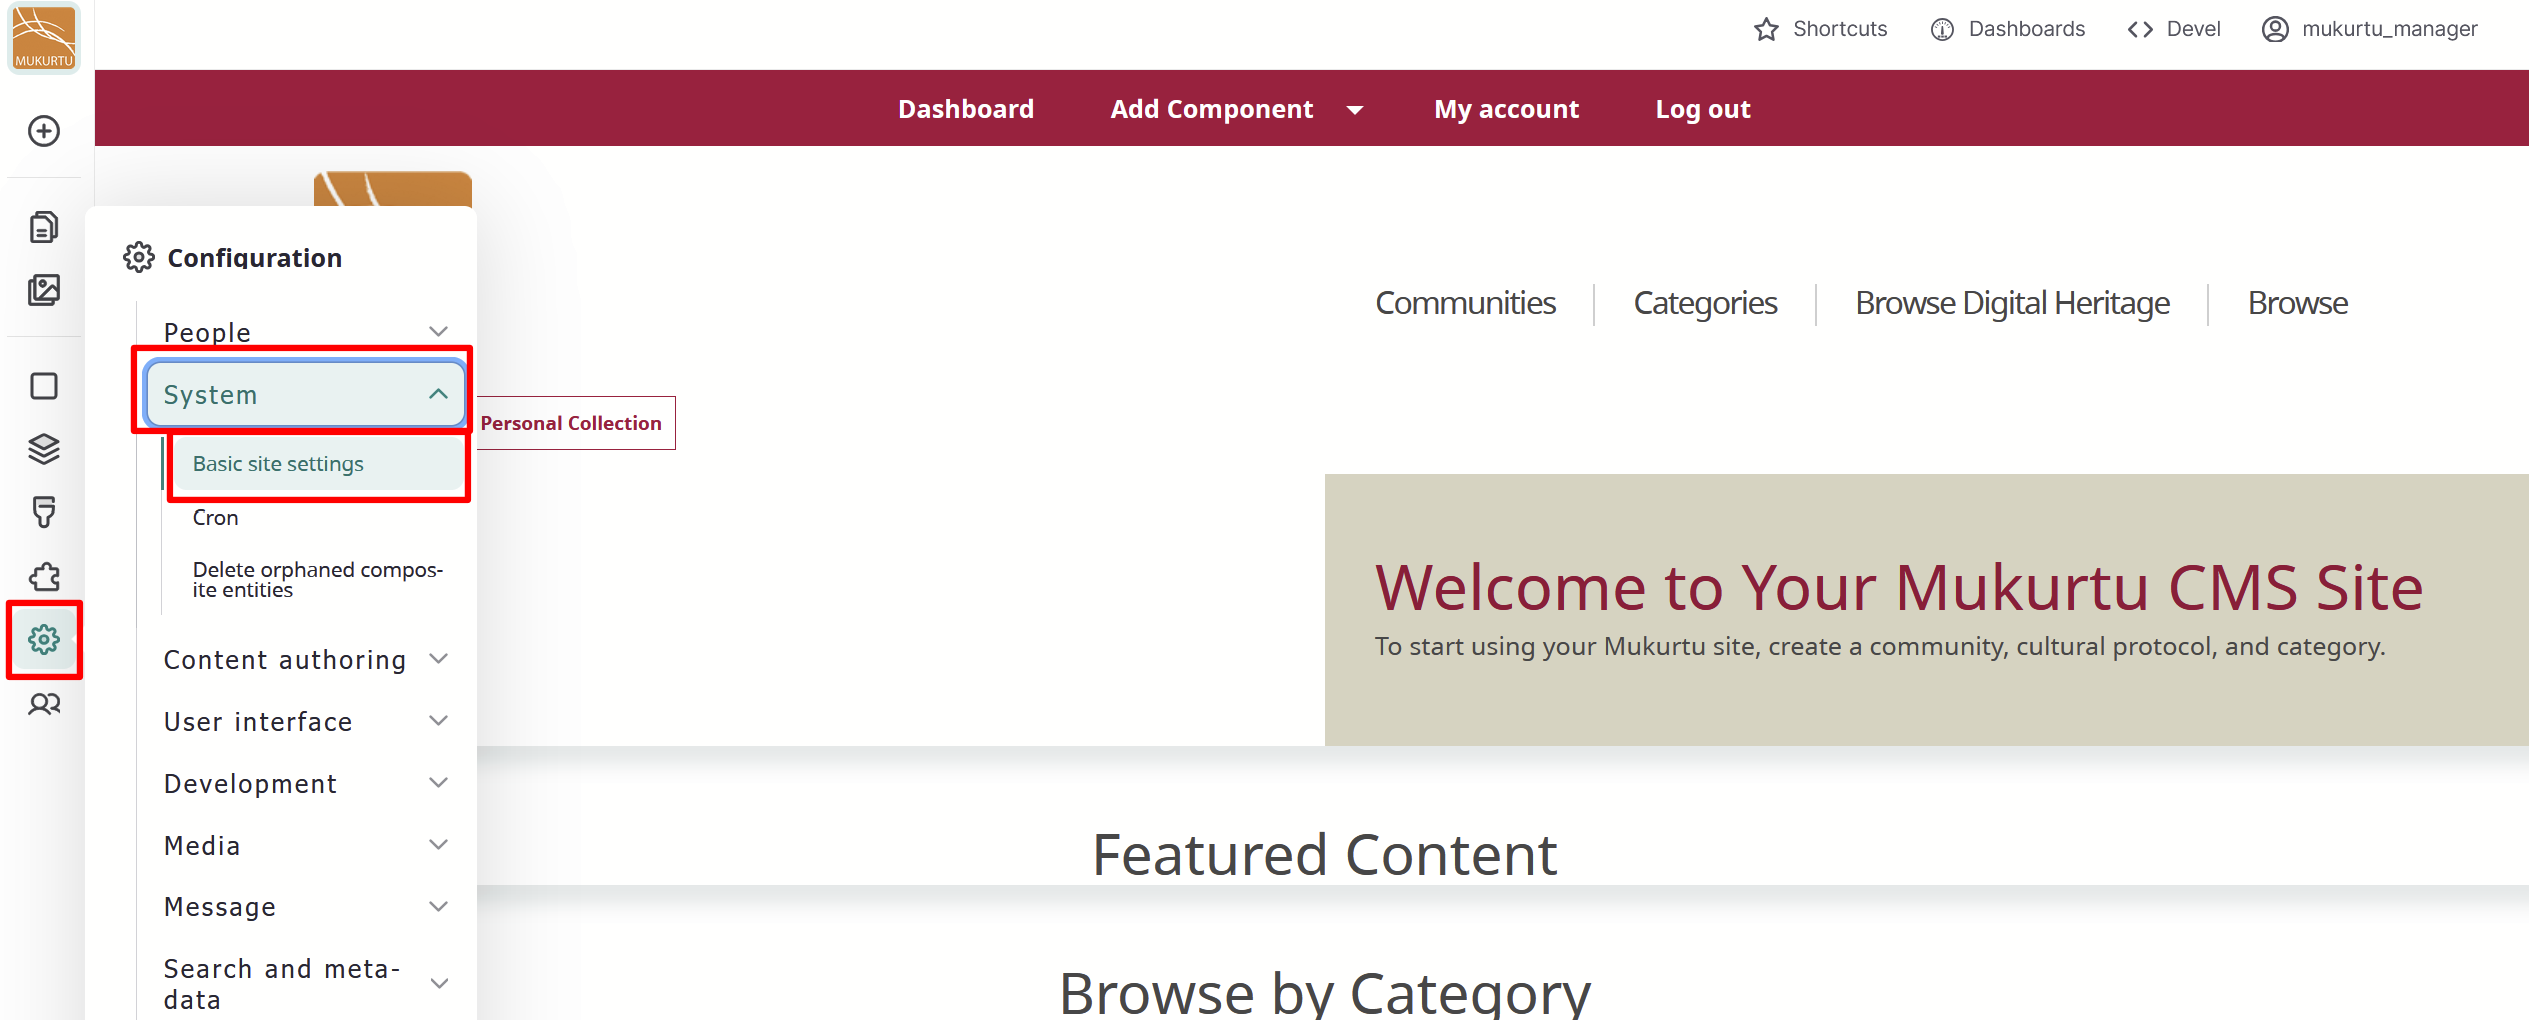
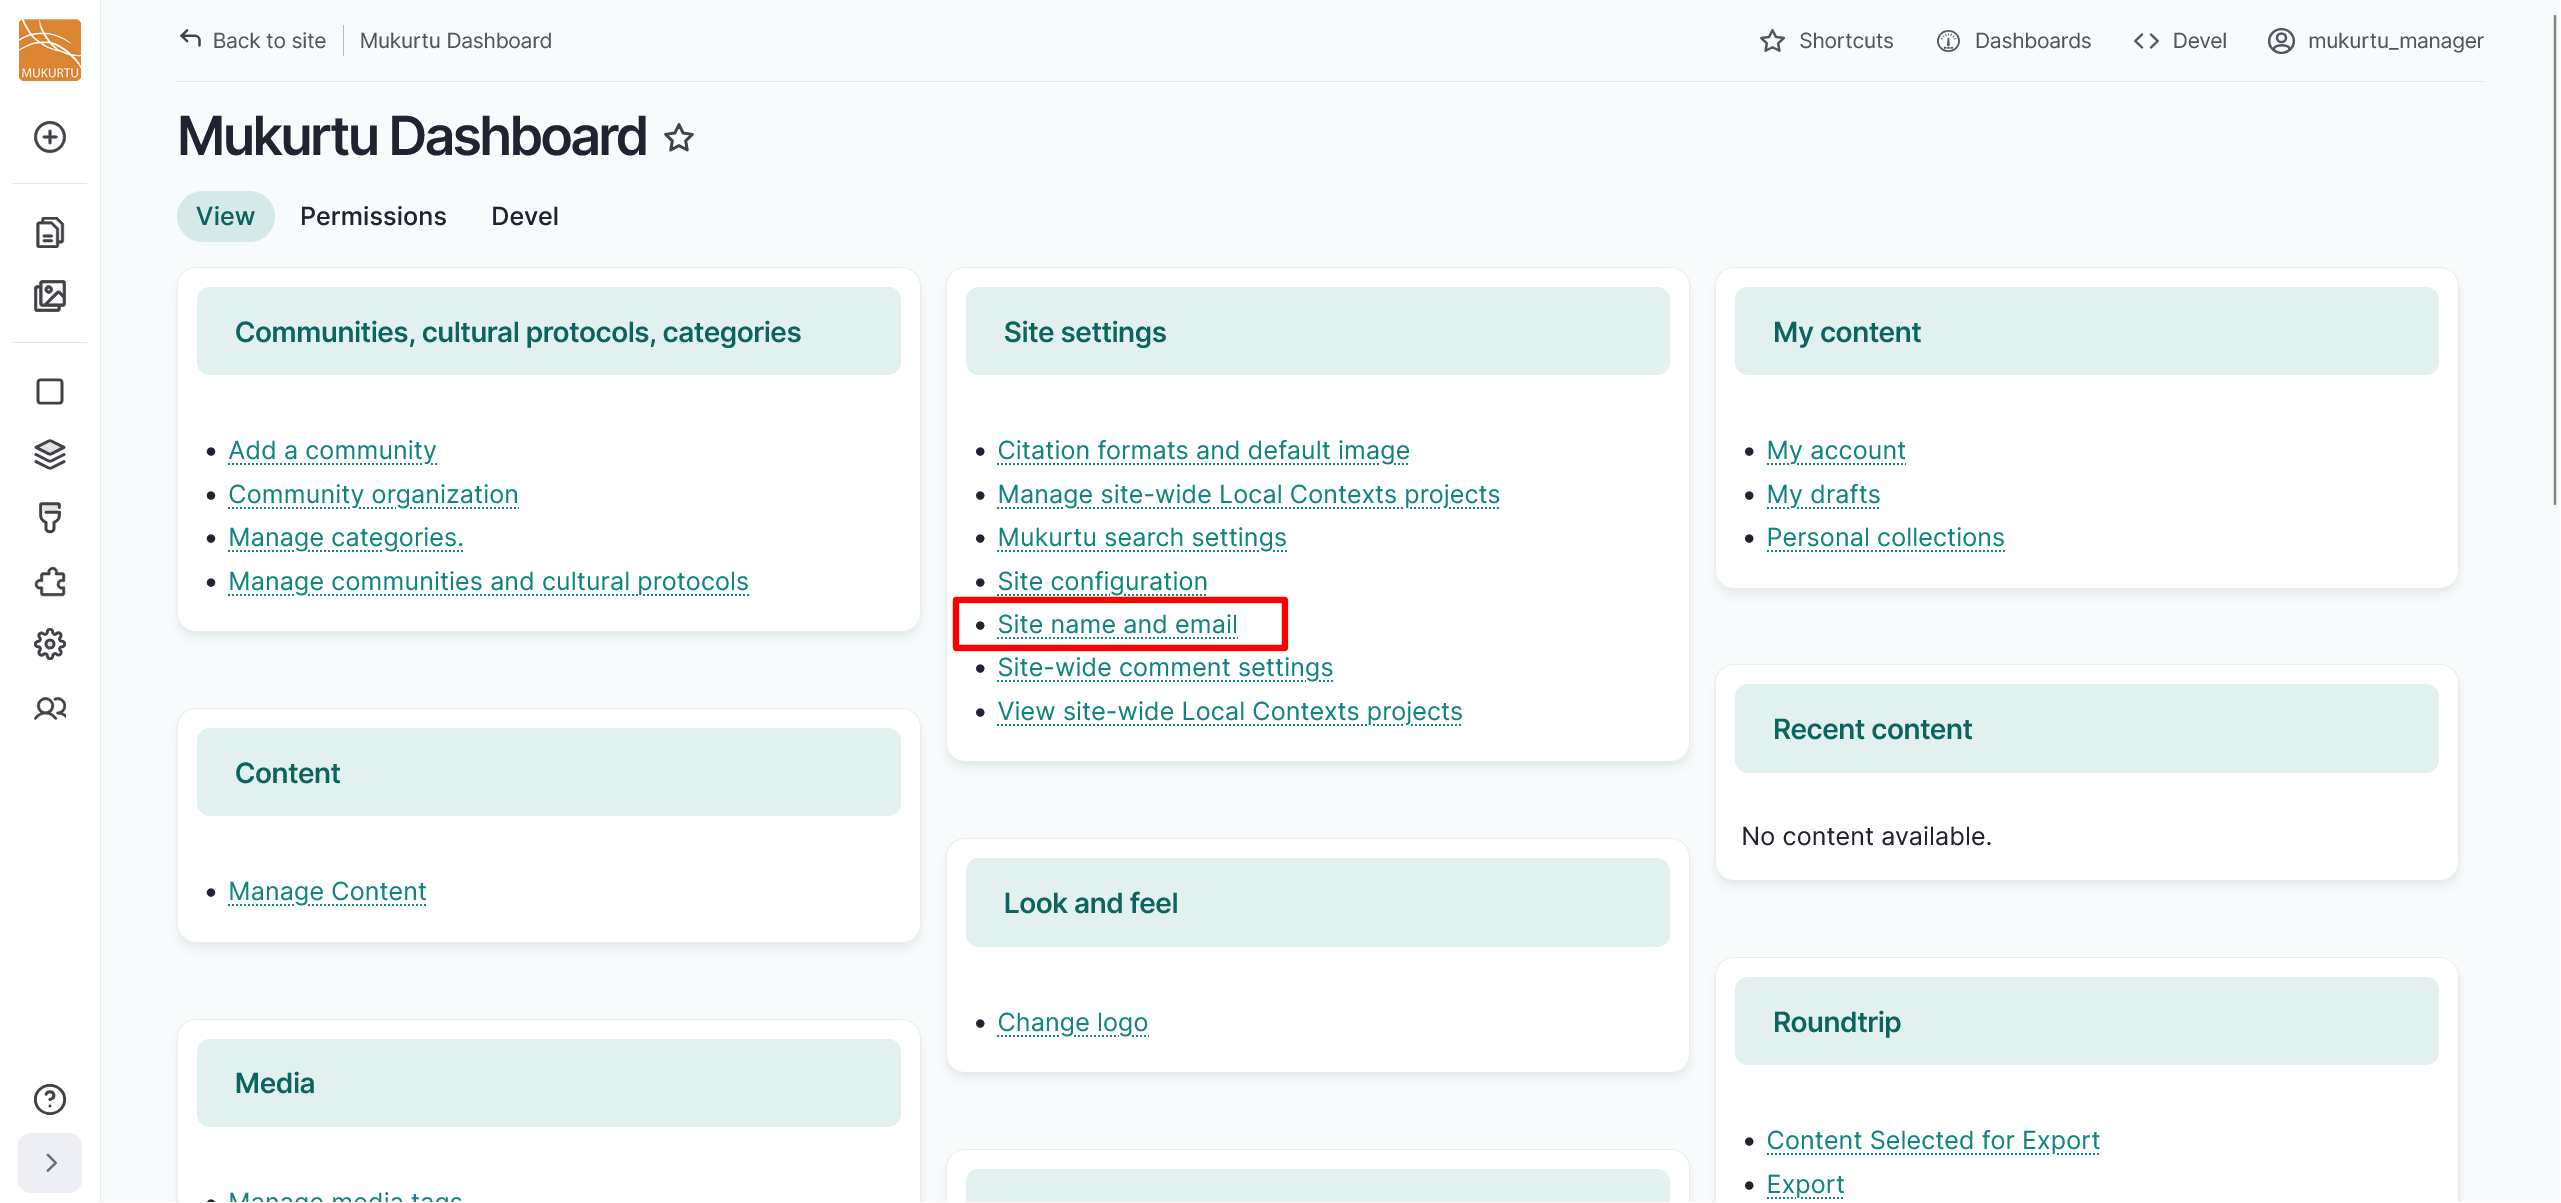
Updated site name and email article to reflect latest PR

diff --git a/docs/look-and-feel/ConfigureNameEmail.md b/docs/look-and-feel/ConfigureNameEmail.md
@@ -4,18 +4,18 @@ tags:
     - look and feel
 ---
 
-# Configure Site Name, Slogan, and Email
+# Configure Site Name and Email
 
 !!! roles "User roles"
     Drupal administrator, Mukurtu Manager
 
-You can configure the look and feel of your Mukurtu site to reflect your organization or community. Refer to the sections below for instructions on how to change your site's name, slogan, and email.
+You can configure the look and feel of your Mukurtu site to reflect your organization or community. Refer to the sections below for instructions on how to change your site's name and email.
 
 These are all located on the **Basic site settings** page. 
 
-1. Navigate to the **Configuration** link in your left-hand admin menu, then select the **System** dropdown. Select **Basic site settings**. You can also access these settings at `/admin/config/system/site-information`.
+1. From the **Dashboard**, navigate to the **Site settings** section. Select the **Site name and email** link.  You can also access these settings at `/admin/config/system/site-information`.
 
-    ![Screenshot of the left-hand admin menu with the Configuration, System, and Basic settings links all highlighted.](../_embeds/lookfeel1.png)
+    ![Screenshot of the dashboard with the site name and email link highlighted.](../_embeds/lookfeel1.png)
 
 2. Enter the name of your site in the *Site name* field. 
 
@@ -28,6 +28,6 @@ These are all located on the **Basic site settings** page.
 
     ![Screenshot of the Basic site settings page with the Site name, Slogan, and Email address fields all highlighted.](../_embeds/lookfeel2.png)
 
-5. Select the "Save configuration" button to save your site name, slogan, and email address.
+5. Select the "Save configuration" button to save your site name and email address.
 
     ![Screenshot of the basic site settings page with the save configuration button highlighted.](../_embeds/lookfeel3.png)
